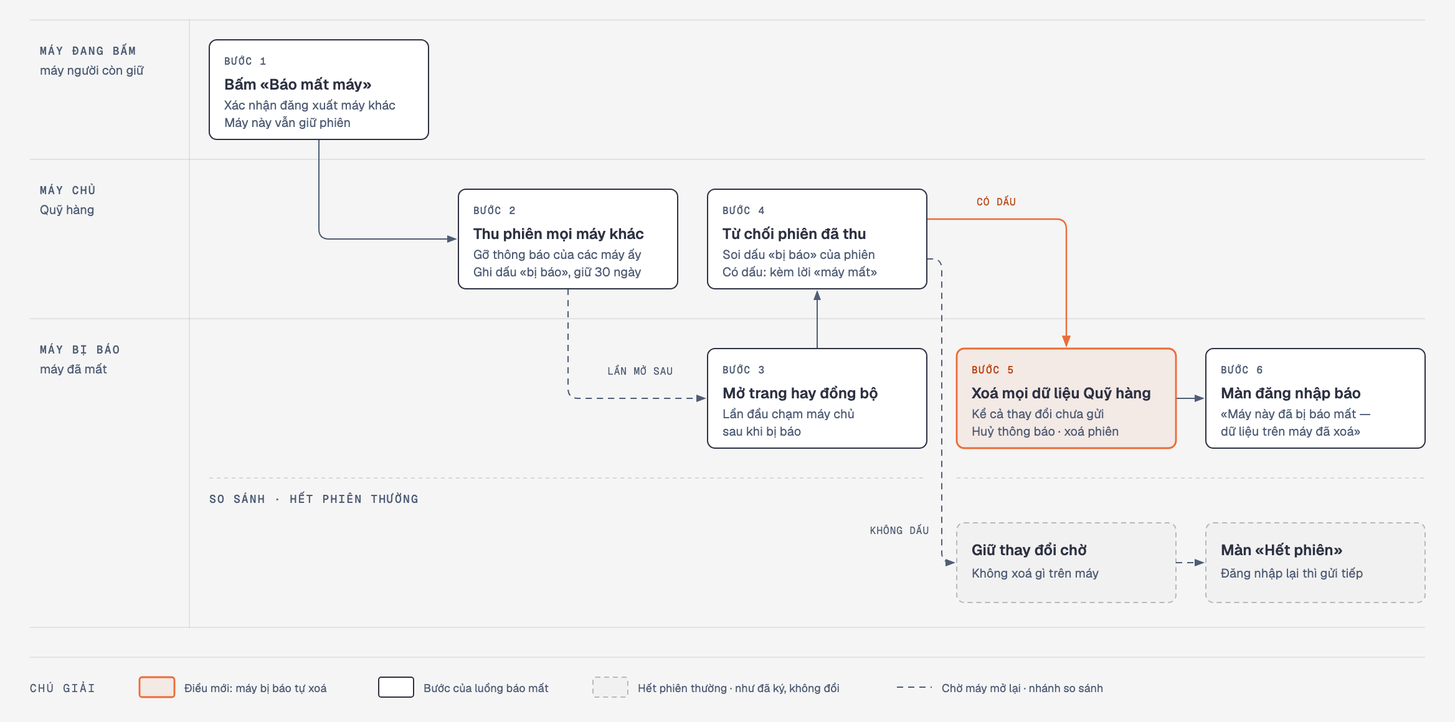
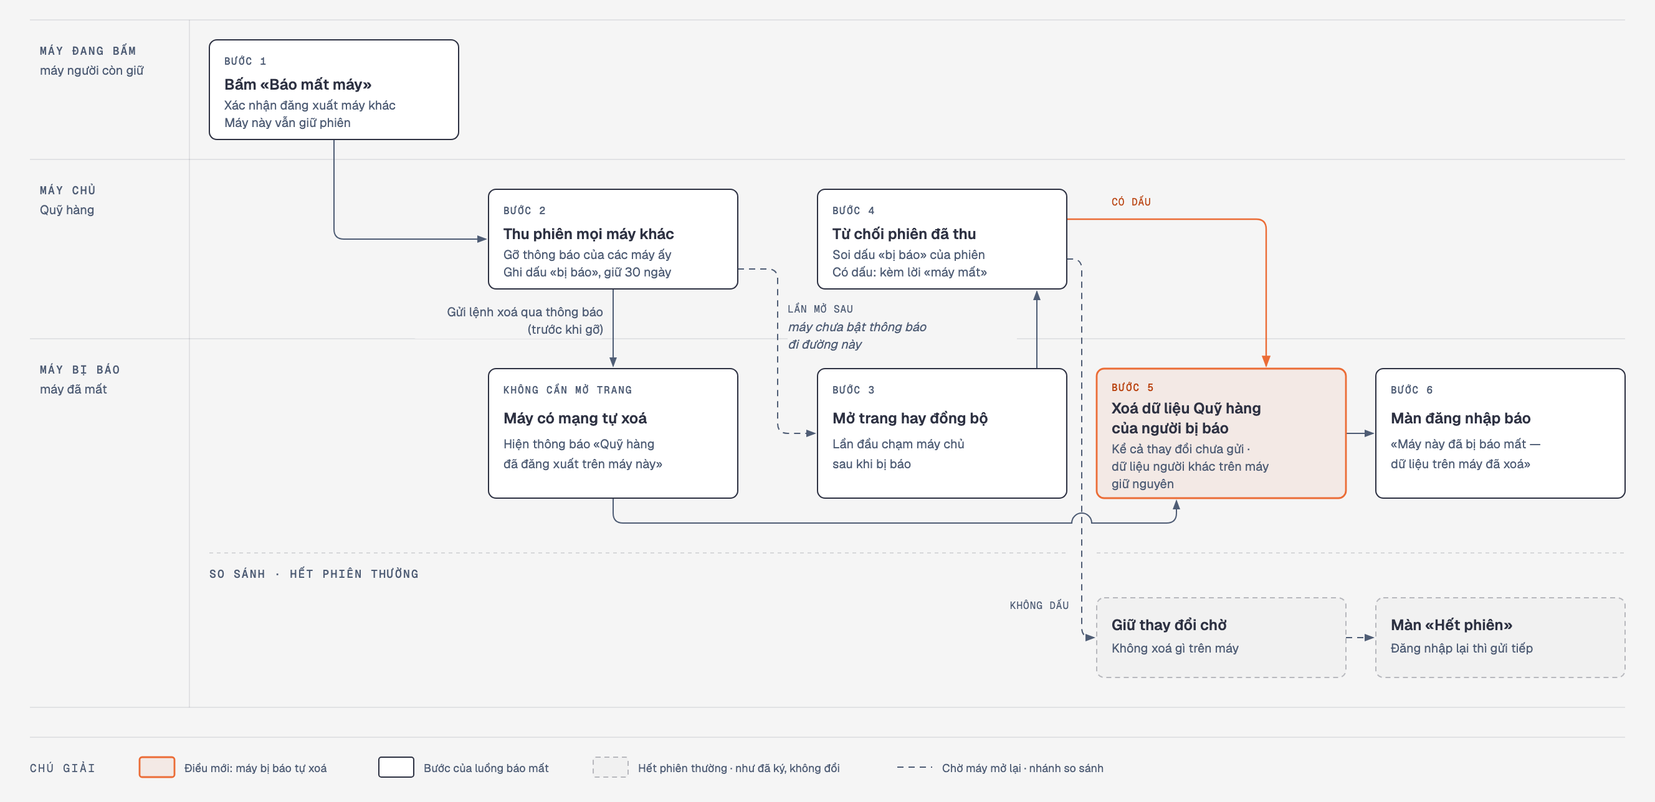
docs(acceptance): tab-toi hình luồng báo mất máy

diff --git a/_acceptance/tab-toi/figures/bao-mat-may.html b/_acceptance/tab-toi/figures/bao-mat-may.html
@@ -26,7 +26,7 @@
       justify-content: center;
       padding: 2rem;
     }
-    .frame { max-width: 1200px; width: 100%; }
+    .frame { max-width: 1360px; width: 100%; }
     .eyebrow {
       font-family: var(--font-mono);
       font-size: 0.66rem;
@@ -51,12 +51,12 @@
 </head>
 <body>
   <main class="frame">
-    <p class="eyebrow">Sơ đồ luồng · Hỏi-2 · AC-6 · AC-7 · AC-8 · AC-9</p>
-    <h1>Máy bị báo mất tự xoá dữ liệu lần đầu chạm máy chủ</h1>
-    <p class="subtitle">Hết phiên thường vẫn giữ thay đổi chờ như đã ký. Máy không bao giờ mở lại thì không xoá được — nhưng cũng không đọc được gì mới, vì phiên đã bị thu.</p>
-    <svg viewBox="0 0 1168 580" xmlns="http://www.w3.org/2000/svg" role="img" aria-labelledby="t d">
+    <p class="eyebrow">Sơ đồ luồng · Hỏi-2 · Hỏi-3 · AC-6 · AC-7 · AC-8 · AC-9 · AC-10</p>
+    <h1>Máy bị báo mất tự xoá dữ liệu của người bị báo</h1>
+    <p class="subtitle">Máy có mạng xoá ngay nhờ lệnh gửi qua thông báo; máy chưa bật thông báo xoá lần đầu chạm máy chủ. Hết phiên thường vẫn giữ thay đổi chờ như đã ký. Máy không bật thông báo và không bao giờ mở lại thì không xoá được — nhưng cũng không đọc được gì mới, vì phiên đã bị thu.</p>
+    <svg viewBox="0 0 1328 644" xmlns="http://www.w3.org/2000/svg" role="img" aria-labelledby="t d">
       <title id="t">Báo mất máy</title>
-      <desc id="d">Ba làn: máy đang bấm, máy chủ, máy bị báo. Bước 1, máy đang bấm bấm Báo mất máy và xác nhận đăng xuất mọi máy khác; máy này giữ phiên. Bước 2, máy chủ thu phiên mọi máy khác, gỡ thông báo của các máy ấy, ghi dấu máy bị báo giữ 30 ngày. Bước 3, lần sau máy bị báo mở trang hay đồng bộ, chạm máy chủ. Bước 4, máy chủ từ chối phiên đã thu và soi dấu. Có dấu: bước 5, máy bị báo xoá mọi dữ liệu Quỹ hàng kể cả thay đổi chưa gửi, huỷ thông báo, xoá phiên; bước 6, màn đăng nhập báo máy này đã bị báo mất, dữ liệu trên máy đã xoá. Không dấu, tức hết phiên thường: giữ thay đổi chờ, không xoá gì; màn Hết phiên, đăng nhập lại thì gửi tiếp.</desc>
+      <desc id="d">Ba làn: máy đang bấm, máy chủ, máy bị báo. Bước 1, máy đang bấm bấm Báo mất máy, xác nhận đăng xuất máy khác; máy này giữ phiên. Bước 2, máy chủ thu phiên mọi máy khác, ghi dấu bị báo giữ 30 ngày, gửi lệnh xoá qua thông báo trước khi gỡ thông báo. Máy có mạng tự xoá, không cần mở trang, hiện thông báo Quỹ hàng đã đăng xuất trên máy này, rồi tới bước 5. Máy chưa bật thông báo đi đường lần mở sau: bước 3, mở trang hay đồng bộ; bước 4, máy chủ từ chối phiên đã thu và soi dấu. Có dấu: bước 5, xoá dữ liệu Quỹ hàng của người bị báo, kể cả thay đổi chưa gửi, dữ liệu người khác trên máy giữ nguyên; bước 6, màn đăng nhập báo máy này đã bị báo mất. Không dấu, tức hết phiên thường: giữ thay đổi chờ, không xoá gì; màn Hết phiên, đăng nhập lại thì gửi tiếp.</desc>
       <defs>
         <marker id="arrow" markerWidth="8" markerHeight="6" refX="7" refY="3" orient="auto">
           <polygon points="0 0, 8 3, 0 6" fill="#4f5d75"/>
@@ -65,113 +65,129 @@
           <polygon points="0 0, 8 3, 0 6" fill="#eb6c36"/>
         </marker>
       </defs>
-      <rect width="1168" height="580" fill="#f5f5f5"/>
+      <rect width="1328" height="644" fill="#f5f5f5"/>
 
       <!-- Lanes -->
-      <line x1="24" y1="16" x2="1144" y2="16" stroke="rgba(45,49,66,0.12)" stroke-width="0.8"/>
-      <line x1="24" y1="128" x2="1144" y2="128" stroke="rgba(45,49,66,0.12)" stroke-width="0.8"/>
-      <line x1="24" y1="256" x2="1144" y2="256" stroke="rgba(45,49,66,0.12)" stroke-width="0.8"/>
-      <line x1="24" y1="504" x2="1144" y2="504" stroke="rgba(45,49,66,0.12)" stroke-width="0.8"/>
-      <line x1="152" y1="16" x2="152" y2="504" stroke="rgba(45,49,66,0.12)" stroke-width="0.8"/>
+      <line x1="24" y1="16" x2="1304" y2="16" stroke="rgba(45,49,66,0.12)" stroke-width="0.8"/>
+      <line x1="24" y1="128" x2="1304" y2="128" stroke="rgba(45,49,66,0.12)" stroke-width="0.8"/>
+      <line x1="24" y1="272" x2="1304" y2="272" stroke="rgba(45,49,66,0.12)" stroke-width="0.8"/>
+      <line x1="24" y1="568" x2="1304" y2="568" stroke="rgba(45,49,66,0.12)" stroke-width="0.8"/>
+      <line x1="152" y1="16" x2="152" y2="568" stroke="rgba(45,49,66,0.12)" stroke-width="0.8"/>
       <text x="32" y="44" fill="#4f5d75" font-size="9" font-weight="500" font-family="'Geist Mono', monospace" letter-spacing="0.12em">MÁY ĐANG BẤM</text>
       <text x="32" y="60" fill="#4f5d75" font-size="10" font-family="'Geist', sans-serif">máy người còn giữ</text>
       <text x="32" y="156" fill="#4f5d75" font-size="9" font-weight="500" font-family="'Geist Mono', monospace" letter-spacing="0.12em">MÁY CHỦ</text>
       <text x="32" y="172" fill="#4f5d75" font-size="10" font-family="'Geist', sans-serif">Quỹ hàng</text>
-      <text x="32" y="284" fill="#4f5d75" font-size="9" font-weight="500" font-family="'Geist Mono', monospace" letter-spacing="0.12em">MÁY BỊ BÁO</text>
-      <text x="32" y="300" fill="#4f5d75" font-size="10" font-family="'Geist', sans-serif">máy đã mất</text>
+      <text x="32" y="300" fill="#4f5d75" font-size="9" font-weight="500" font-family="'Geist Mono', monospace" letter-spacing="0.12em">MÁY BỊ BÁO</text>
+      <text x="32" y="316" fill="#4f5d75" font-size="10" font-family="'Geist', sans-serif">máy đã mất</text>
 
       <!-- Comparison band divider -->
-      <line x1="168" y1="384" x2="744" y2="384" stroke="rgba(45,49,66,0.20)" stroke-width="0.8" stroke-dasharray="3,3"/>
-      <line x1="768" y1="384" x2="1144" y2="384" stroke="rgba(45,49,66,0.20)" stroke-width="0.8" stroke-dasharray="3,3"/>
-      <text x="168" y="404" fill="#4f5d75" font-size="9" font-weight="500" font-family="'Geist Mono', monospace" letter-spacing="0.12em">SO SÁNH · HẾT PHIÊN THƯỜNG</text>
+      <line x1="168" y1="444" x2="856" y2="444" stroke="rgba(45,49,66,0.20)" stroke-width="0.8" stroke-dasharray="3,3"/>
+      <line x1="880" y1="444" x2="1304" y2="444" stroke="rgba(45,49,66,0.20)" stroke-width="0.8" stroke-dasharray="3,3"/>
+      <text x="168" y="464" fill="#4f5d75" font-size="9" font-weight="500" font-family="'Geist Mono', monospace" letter-spacing="0.12em">SO SÁNH · HẾT PHIÊN THƯỜNG</text>
 
       <!-- Connectors (drawn before boxes) -->
-      <path d="M 256 112 L 256 184 Q 256 192 264 192 L 366 192" fill="none" stroke="#4f5d75" stroke-width="1" marker-end="url(#arrow)"/>
-      <path d="M 456 232 L 456 312 Q 456 320 464 320 L 566 320" fill="none" stroke="#4f5d75" stroke-width="1" stroke-dasharray="5,4" marker-end="url(#arrow)"/>
-      <line x1="656" y1="280" x2="656" y2="234" stroke="#4f5d75" stroke-width="1" marker-end="url(#arrow)"/>
-      <path d="M 744 176 L 848 176 Q 856 176 856 184 L 856 278" fill="none" stroke="#eb6c36" stroke-width="1.2" marker-end="url(#arrow-accent)"/>
-      <path d="M 744 208 L 748 208 Q 756 208 756 216 L 756 444 Q 756 452 764 452 L 766 452" fill="none" stroke="#4f5d75" stroke-width="1" stroke-dasharray="5,4" marker-end="url(#arrow)"/>
-      <line x1="944" y1="320" x2="966" y2="320" stroke="#4f5d75" stroke-width="1" marker-end="url(#arrow)"/>
-      <line x1="944" y1="452" x2="966" y2="452" stroke="#4f5d75" stroke-width="1" stroke-dasharray="5,4" marker-end="url(#arrow)"/>
+      <path d="M 268 112 L 268 184 Q 268 192 276 192 L 390 192" fill="none" stroke="#4f5d75" stroke-width="1" marker-end="url(#arrow)"/>
+      <line x1="492" y1="232" x2="492" y2="294" stroke="#4f5d75" stroke-width="1" marker-end="url(#arrow)"/>
+      <path d="M 592 216 L 616 216 Q 624 216 624 224 L 624 340 Q 624 348 632 348 L 654 348" fill="none" stroke="#4f5d75" stroke-width="1" stroke-dasharray="5,4" marker-end="url(#arrow)"/>
+      <line x1="832" y1="296" x2="832" y2="234" stroke="#4f5d75" stroke-width="1" marker-end="url(#arrow)"/>
+      <path d="M 856 176 L 1008 176 Q 1016 176 1016 184 L 1016 294" fill="none" stroke="#eb6c36" stroke-width="1.2" marker-end="url(#arrow-accent)"/>
+      <path d="M 856 208 L 860 208 Q 868 208 868 216 L 868 504 Q 868 512 876 512 L 878 512" fill="none" stroke="#4f5d75" stroke-width="1" stroke-dasharray="5,4" marker-end="url(#arrow)"/>
+      <path d="M 492 400 L 492 412 Q 492 420 500 420 L 860 420 A 8 8 0 0 1 876 420 L 936 420 Q 944 420 944 412 L 944 402" fill="none" stroke="#4f5d75" stroke-width="1" marker-end="url(#arrow)"/>
+      <line x1="1080" y1="348" x2="1102" y2="348" stroke="#4f5d75" stroke-width="1" marker-end="url(#arrow)"/>
+      <line x1="1080" y1="512" x2="1102" y2="512" stroke="#4f5d75" stroke-width="1" stroke-dasharray="5,4" marker-end="url(#arrow)"/>
 
       <!-- Connector labels -->
-      <rect x="476" y="292" width="76" height="12" rx="2" fill="#f5f5f5"/>
-      <text x="514" y="301" fill="#4f5d75" font-size="8" font-family="'Geist Mono', monospace" text-anchor="middle" letter-spacing="0.06em">LẦN MỞ SAU</text>
-      <rect x="772" y="156" width="56" height="12" rx="2" fill="#f5f5f5"/>
-      <text x="800" y="165" fill="#ba4513" font-size="8" font-family="'Geist Mono', monospace" text-anchor="middle" letter-spacing="0.06em">CÓ DẤU</text>
-      <rect x="684" y="420" width="64" height="12" rx="2" fill="#f5f5f5"/>
-      <text x="746" y="429" fill="#4f5d75" font-size="8" font-family="'Geist Mono', monospace" text-anchor="end" letter-spacing="0.06em">KHÔNG DẤU</text>
+      <rect x="332" y="240" width="152" height="32" rx="2" fill="#f5f5f5"/>
+      <text x="484" y="254" fill="#4f5d75" font-size="10" font-family="'Geist', sans-serif" text-anchor="end">Gửi lệnh xoá qua thông báo</text>
+      <text x="484" y="268" fill="#4f5d75" font-size="10" font-family="'Geist', sans-serif" text-anchor="end">(trước khi gỡ)</text>
+      <rect x="632" y="240" width="184" height="48" rx="2" fill="#f5f5f5"/>
+      <text x="632" y="251" fill="#4f5d75" font-size="8" font-family="'Geist Mono', monospace" text-anchor="start" letter-spacing="0.06em">LẦN MỞ SAU</text>
+      <text x="632" y="266" fill="#4f5d75" font-size="10" font-family="'Geist', sans-serif" text-anchor="start" font-style="italic">máy chưa bật thông báo</text>
+      <text x="632" y="280" fill="#4f5d75" font-size="10" font-family="'Geist', sans-serif" text-anchor="start" font-style="italic">đi đường này</text>
+      <rect x="880" y="156" width="56" height="12" rx="2" fill="#f5f5f5"/>
+      <text x="908" y="165" fill="#ba4513" font-size="8" font-family="'Geist Mono', monospace" text-anchor="middle" letter-spacing="0.06em">CÓ DẤU</text>
+      <rect x="796" y="480" width="64" height="12" rx="2" fill="#f5f5f5"/>
+      <text x="858" y="489" fill="#4f5d75" font-size="8" font-family="'Geist Mono', monospace" text-anchor="end" letter-spacing="0.06em">KHÔNG DẤU</text>
 
       <!-- 1 · Máy đang bấm -->
-      <rect x="168" y="32" width="176" height="80" rx="6" fill="#f5f5f5"/>
-      <rect x="168" y="32" width="176" height="80" rx="6" fill="#ffffff" stroke="#2d3142" stroke-width="1"/>
+      <rect x="168" y="32" width="200" height="80" rx="6" fill="#f5f5f5"/>
+      <rect x="168" y="32" width="200" height="80" rx="6" fill="#ffffff" stroke="#2d3142" stroke-width="1"/>
       <text x="180" y="52" fill="#4f5d75" font-size="8" font-weight="500" font-family="'Geist Mono', monospace" letter-spacing="0.12em">BƯỚC 1</text>
       <text x="180" y="72" fill="#2d3142" font-size="12" font-weight="600" font-family="'Geist', sans-serif">Bấm «Báo mất máy»</text>
       <text x="180" y="88" fill="#4f5d75" font-size="10" font-family="'Geist', sans-serif">Xác nhận đăng xuất máy khác</text>
       <text x="180" y="102" fill="#4f5d75" font-size="10" font-family="'Geist', sans-serif">Máy này vẫn giữ phiên</text>
 
       <!-- 2 · Máy chủ thu phiên -->
-      <rect x="368" y="152" width="176" height="80" rx="6" fill="#f5f5f5"/>
-      <rect x="368" y="152" width="176" height="80" rx="6" fill="#ffffff" stroke="#2d3142" stroke-width="1"/>
-      <text x="380" y="172" fill="#4f5d75" font-size="8" font-weight="500" font-family="'Geist Mono', monospace" letter-spacing="0.12em">BƯỚC 2</text>
-      <text x="380" y="192" fill="#2d3142" font-size="12" font-weight="600" font-family="'Geist', sans-serif">Thu phiên mọi máy khác</text>
-      <text x="380" y="208" fill="#4f5d75" font-size="10" font-family="'Geist', sans-serif">Gỡ thông báo của các máy ấy</text>
-      <text x="380" y="222" fill="#4f5d75" font-size="10" font-family="'Geist', sans-serif">Ghi dấu «bị báo», giữ 30 ngày</text>
-
-      <!-- 3 · Máy bị báo chạm máy chủ -->
-      <rect x="568" y="280" width="176" height="80" rx="6" fill="#f5f5f5"/>
-      <rect x="568" y="280" width="176" height="80" rx="6" fill="#ffffff" stroke="#2d3142" stroke-width="1"/>
-      <text x="580" y="300" fill="#4f5d75" font-size="8" font-weight="500" font-family="'Geist Mono', monospace" letter-spacing="0.12em">BƯỚC 3</text>
-      <text x="580" y="320" fill="#2d3142" font-size="12" font-weight="600" font-family="'Geist', sans-serif">Mở trang hay đồng bộ</text>
-      <text x="580" y="336" fill="#4f5d75" font-size="10" font-family="'Geist', sans-serif">Lần đầu chạm máy chủ</text>
-      <text x="580" y="350" fill="#4f5d75" font-size="10" font-family="'Geist', sans-serif">sau khi bị báo</text>
+      <rect x="392" y="152" width="200" height="80" rx="6" fill="#f5f5f5"/>
+      <rect x="392" y="152" width="200" height="80" rx="6" fill="#ffffff" stroke="#2d3142" stroke-width="1"/>
+      <text x="404" y="172" fill="#4f5d75" font-size="8" font-weight="500" font-family="'Geist Mono', monospace" letter-spacing="0.12em">BƯỚC 2</text>
+      <text x="404" y="192" fill="#2d3142" font-size="12" font-weight="600" font-family="'Geist', sans-serif">Thu phiên mọi máy khác</text>
+      <text x="404" y="208" fill="#4f5d75" font-size="10" font-family="'Geist', sans-serif">Gỡ thông báo của các máy ấy</text>
+      <text x="404" y="222" fill="#4f5d75" font-size="10" font-family="'Geist', sans-serif">Ghi dấu «bị báo», giữ 30 ngày</text>
 
       <!-- 4 · Máy chủ soi dấu -->
-      <rect x="568" y="152" width="176" height="80" rx="6" fill="#f5f5f5"/>
-      <rect x="568" y="152" width="176" height="80" rx="6" fill="#ffffff" stroke="#2d3142" stroke-width="1"/>
-      <text x="580" y="172" fill="#4f5d75" font-size="8" font-weight="500" font-family="'Geist Mono', monospace" letter-spacing="0.12em">BƯỚC 4</text>
-      <text x="580" y="192" fill="#2d3142" font-size="12" font-weight="600" font-family="'Geist', sans-serif">Từ chối phiên đã thu</text>
-      <text x="580" y="208" fill="#4f5d75" font-size="10" font-family="'Geist', sans-serif">Soi dấu «bị báo» của phiên</text>
-      <text x="580" y="222" fill="#4f5d75" font-size="10" font-family="'Geist', sans-serif">Có dấu: kèm lời «máy mất»</text>
+      <rect x="656" y="152" width="200" height="80" rx="6" fill="#f5f5f5"/>
+      <rect x="656" y="152" width="200" height="80" rx="6" fill="#ffffff" stroke="#2d3142" stroke-width="1"/>
+      <text x="668" y="172" fill="#4f5d75" font-size="8" font-weight="500" font-family="'Geist Mono', monospace" letter-spacing="0.12em">BƯỚC 4</text>
+      <text x="668" y="192" fill="#2d3142" font-size="12" font-weight="600" font-family="'Geist', sans-serif">Từ chối phiên đã thu</text>
+      <text x="668" y="208" fill="#4f5d75" font-size="10" font-family="'Geist', sans-serif">Soi dấu «bị báo» của phiên</text>
+      <text x="668" y="222" fill="#4f5d75" font-size="10" font-family="'Geist', sans-serif">Có dấu: kèm lời «máy mất»</text>
+
+      <!-- Lệnh xoá qua thông báo -->
+      <rect x="392" y="296" width="200" height="104" rx="6" fill="#f5f5f5"/>
+      <rect x="392" y="296" width="200" height="104" rx="6" fill="#ffffff" stroke="#2d3142" stroke-width="1"/>
+      <text x="404" y="316" fill="#4f5d75" font-size="8" font-weight="500" font-family="'Geist Mono', monospace" letter-spacing="0.12em">KHÔNG CẦN MỞ TRANG</text>
+      <text x="404" y="340" fill="#2d3142" font-size="12" font-weight="600" font-family="'Geist', sans-serif">Máy có mạng tự xoá</text>
+      <text x="404" y="360" fill="#4f5d75" font-size="10" font-family="'Geist', sans-serif">Hiện thông báo «Quỹ hàng</text>
+      <text x="404" y="376" fill="#4f5d75" font-size="10" font-family="'Geist', sans-serif">đã đăng xuất trên máy này»</text>
+
+      <!-- 3 · Máy bị báo chạm máy chủ -->
+      <rect x="656" y="296" width="200" height="104" rx="6" fill="#f5f5f5"/>
+      <rect x="656" y="296" width="200" height="104" rx="6" fill="#ffffff" stroke="#2d3142" stroke-width="1"/>
+      <text x="668" y="316" fill="#4f5d75" font-size="8" font-weight="500" font-family="'Geist Mono', monospace" letter-spacing="0.12em">BƯỚC 3</text>
+      <text x="668" y="340" fill="#2d3142" font-size="12" font-weight="600" font-family="'Geist', sans-serif">Mở trang hay đồng bộ</text>
+      <text x="668" y="360" fill="#4f5d75" font-size="10" font-family="'Geist', sans-serif">Lần đầu chạm máy chủ</text>
+      <text x="668" y="376" fill="#4f5d75" font-size="10" font-family="'Geist', sans-serif">sau khi bị báo</text>
 
       <!-- 5 · Xoá dữ liệu (focal) -->
-      <rect x="768" y="280" width="176" height="80" rx="6" fill="#f5f5f5"/>
-      <rect x="768" y="280" width="176" height="80" rx="6" fill="rgba(235,108,54,0.08)" stroke="#eb6c36" stroke-width="1.4"/>
-      <text x="780" y="300" fill="#ba4513" font-size="8" font-weight="500" font-family="'Geist Mono', monospace" letter-spacing="0.12em">BƯỚC 5</text>
-      <text x="780" y="320" fill="#2d3142" font-size="12" font-weight="600" font-family="'Geist', sans-serif">Xoá mọi dữ liệu Quỹ hàng</text>
-      <text x="780" y="336" fill="#4f5d75" font-size="10" font-family="'Geist', sans-serif">Kể cả thay đổi chưa gửi</text>
-      <text x="780" y="350" fill="#4f5d75" font-size="10" font-family="'Geist', sans-serif">Huỷ thông báo · xoá phiên</text>
+      <rect x="880" y="296" width="200" height="104" rx="6" fill="#f5f5f5"/>
+      <rect x="880" y="296" width="200" height="104" rx="6" fill="rgba(235,108,54,0.08)" stroke="#eb6c36" stroke-width="1.4"/>
+      <text x="892" y="314" fill="#ba4513" font-size="8" font-weight="500" font-family="'Geist Mono', monospace" letter-spacing="0.12em">BƯỚC 5</text>
+      <text x="892" y="332" fill="#2d3142" font-size="12" font-weight="600" font-family="'Geist', sans-serif">Xoá dữ liệu Quỹ hàng</text>
+      <text x="892" y="348" fill="#2d3142" font-size="12" font-weight="600" font-family="'Geist', sans-serif">của người bị báo</text>
+      <text x="892" y="364" fill="#4f5d75" font-size="10" font-family="'Geist', sans-serif">Kể cả thay đổi chưa gửi ·</text>
+      <text x="892" y="378" fill="#4f5d75" font-size="10" font-family="'Geist', sans-serif">dữ liệu người khác trên máy</text>
+      <text x="892" y="392" fill="#4f5d75" font-size="10" font-family="'Geist', sans-serif">giữ nguyên</text>
 
       <!-- 6 · Màn đăng nhập -->
-      <rect x="968" y="280" width="176" height="80" rx="6" fill="#f5f5f5"/>
-      <rect x="968" y="280" width="176" height="80" rx="6" fill="#ffffff" stroke="#2d3142" stroke-width="1"/>
-      <text x="980" y="300" fill="#4f5d75" font-size="8" font-weight="500" font-family="'Geist Mono', monospace" letter-spacing="0.12em">BƯỚC 6</text>
-      <text x="980" y="320" fill="#2d3142" font-size="12" font-weight="600" font-family="'Geist', sans-serif">Màn đăng nhập báo</text>
-      <text x="980" y="336" fill="#4f5d75" font-size="10" font-family="'Geist', sans-serif">«Máy này đã bị báo mất —</text>
-      <text x="980" y="350" fill="#4f5d75" font-size="10" font-family="'Geist', sans-serif">dữ liệu trên máy đã xoá»</text>
+      <rect x="1104" y="296" width="200" height="104" rx="6" fill="#f5f5f5"/>
+      <rect x="1104" y="296" width="200" height="104" rx="6" fill="#ffffff" stroke="#2d3142" stroke-width="1"/>
+      <text x="1116" y="316" fill="#4f5d75" font-size="8" font-weight="500" font-family="'Geist Mono', monospace" letter-spacing="0.12em">BƯỚC 6</text>
+      <text x="1116" y="340" fill="#2d3142" font-size="12" font-weight="600" font-family="'Geist', sans-serif">Màn đăng nhập báo</text>
+      <text x="1116" y="360" fill="#4f5d75" font-size="10" font-family="'Geist', sans-serif">«Máy này đã bị báo mất —</text>
+      <text x="1116" y="376" fill="#4f5d75" font-size="10" font-family="'Geist', sans-serif">dữ liệu trên máy đã xoá»</text>
 
       <!-- So sánh · hết phiên thường -->
-      <rect x="768" y="420" width="176" height="64" rx="6" fill="#f5f5f5"/>
-      <rect x="768" y="420" width="176" height="64" rx="6" fill="rgba(45,49,66,0.02)" stroke="rgba(45,49,66,0.30)" stroke-width="1" stroke-dasharray="4,3"/>
-      <text x="780" y="446" fill="#2d3142" font-size="12" font-weight="600" font-family="'Geist', sans-serif">Giữ thay đổi chờ</text>
-      <text x="780" y="464" fill="#4f5d75" font-size="10" font-family="'Geist', sans-serif">Không xoá gì trên máy</text>
-
-      <rect x="968" y="420" width="176" height="64" rx="6" fill="#f5f5f5"/>
-      <rect x="968" y="420" width="176" height="64" rx="6" fill="rgba(45,49,66,0.02)" stroke="rgba(45,49,66,0.30)" stroke-width="1" stroke-dasharray="4,3"/>
-      <text x="980" y="446" fill="#2d3142" font-size="12" font-weight="600" font-family="'Geist', sans-serif">Màn «Hết phiên»</text>
-      <text x="980" y="464" fill="#4f5d75" font-size="10" font-family="'Geist', sans-serif">Đăng nhập lại thì gửi tiếp</text>
+      <rect x="880" y="480" width="200" height="64" rx="6" fill="#f5f5f5"/>
+      <rect x="880" y="480" width="200" height="64" rx="6" fill="rgba(45,49,66,0.02)" stroke="rgba(45,49,66,0.30)" stroke-width="1" stroke-dasharray="4,3"/>
+      <text x="892" y="506" fill="#2d3142" font-size="12" font-weight="600" font-family="'Geist', sans-serif">Giữ thay đổi chờ</text>
+      <text x="892" y="524" fill="#4f5d75" font-size="10" font-family="'Geist', sans-serif">Không xoá gì trên máy</text>
+      <rect x="1104" y="480" width="200" height="64" rx="6" fill="#f5f5f5"/>
+      <rect x="1104" y="480" width="200" height="64" rx="6" fill="rgba(45,49,66,0.02)" stroke="rgba(45,49,66,0.30)" stroke-width="1" stroke-dasharray="4,3"/>
+      <text x="1116" y="506" fill="#2d3142" font-size="12" font-weight="600" font-family="'Geist', sans-serif">Màn «Hết phiên»</text>
+      <text x="1116" y="524" fill="#4f5d75" font-size="10" font-family="'Geist', sans-serif">Đăng nhập lại thì gửi tiếp</text>
 
       <!-- Legend -->
-      <line x1="24" y1="528" x2="1144" y2="528" stroke="rgba(45,49,66,0.12)" stroke-width="0.8"/>
-      <text x="24" y="556" fill="#4f5d75" font-size="9" font-family="'Geist Mono', monospace" letter-spacing="0.14em">CHÚ GIẢI</text>
-      <rect x="112" y="544" width="28" height="16" rx="2" fill="rgba(235,108,54,0.08)" stroke="#eb6c36" stroke-width="1.4"/>
-      <text x="148" y="556" fill="#4f5d75" font-size="9" font-family="'Geist', sans-serif">Điều mới: máy bị báo tự xoá</text>
-      <rect x="304" y="544" width="28" height="16" rx="2" fill="#ffffff" stroke="#2d3142" stroke-width="1"/>
-      <text x="340" y="556" fill="#4f5d75" font-size="9" font-family="'Geist', sans-serif">Bước của luồng báo mất</text>
-      <rect x="476" y="544" width="28" height="16" rx="2" fill="rgba(45,49,66,0.02)" stroke="rgba(45,49,66,0.30)" stroke-width="1" stroke-dasharray="4,3"/>
-      <text x="512" y="556" fill="#4f5d75" font-size="9" font-family="'Geist', sans-serif">Hết phiên thường · như đã ký, không đổi</text>
-      <line x1="720" y1="552" x2="748" y2="552" stroke="#4f5d75" stroke-width="1" stroke-dasharray="5,4"/>
-      <text x="756" y="556" fill="#4f5d75" font-size="9" font-family="'Geist', sans-serif">Chờ máy mở lại · nhánh so sánh</text>
+      <line x1="24" y1="592" x2="1304" y2="592" stroke="rgba(45,49,66,0.12)" stroke-width="0.8"/>
+      <text x="24" y="620" fill="#4f5d75" font-size="9" font-family="'Geist Mono', monospace" letter-spacing="0.14em">CHÚ GIẢI</text>
+      <rect x="112" y="608" width="28" height="16" rx="2" fill="rgba(235,108,54,0.08)" stroke="#eb6c36" stroke-width="1.4"/>
+      <text x="148" y="620" fill="#4f5d75" font-size="9" font-family="'Geist', sans-serif">Điều mới: máy bị báo tự xoá</text>
+      <rect x="304" y="608" width="28" height="16" rx="2" fill="#ffffff" stroke="#2d3142" stroke-width="1"/>
+      <text x="340" y="620" fill="#4f5d75" font-size="9" font-family="'Geist', sans-serif">Bước của luồng báo mất</text>
+      <rect x="476" y="608" width="28" height="16" rx="2" fill="rgba(45,49,66,0.02)" stroke="rgba(45,49,66,0.30)" stroke-width="1" stroke-dasharray="4,3"/>
+      <text x="512" y="620" fill="#4f5d75" font-size="9" font-family="'Geist', sans-serif">Hết phiên thường · như đã ký, không đổi</text>
+      <line x1="720" y1="616" x2="748" y2="616" stroke="#4f5d75" stroke-width="1" stroke-dasharray="5,4"/>
+      <text x="756" y="620" fill="#4f5d75" font-size="9" font-family="'Geist', sans-serif">Chờ máy mở lại · nhánh so sánh</text>
     </svg>
   </main>
 </body>
